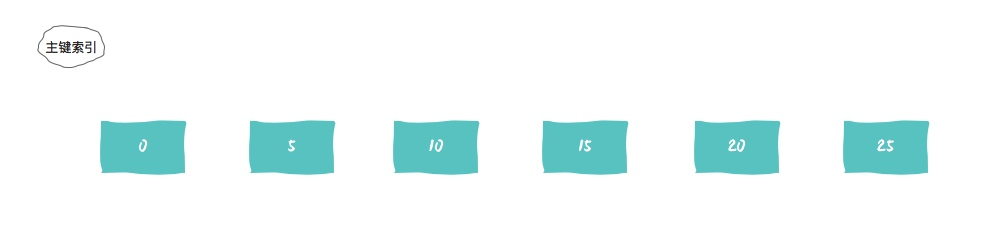
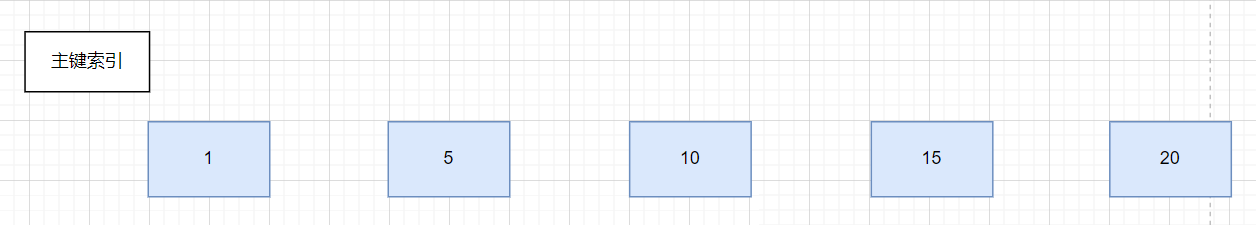
修改mysql笔记

diff --git a/MySQL数据库-2.md b/MySQL数据库-2.md
@@ -7,7 +7,7 @@ tag:
 
 ## InnoDB的锁机制
 
-锁是MySQL中并发控制的重要手段，InnoDB作为一种最常用的执行引擎，他支持很多种锁的类型。InnoDB中的锁根据不同的分类方式也有很多种分法。主要由以下这些：
+锁是MySQL事务持有的，针对数据库中的对象施加锁定的手段，是并发控制的重要部分，InnoDB作为一种最常用的执行引擎，他支持很多种锁的类型。InnoDB中的锁根据不同的分类方式也有很多种分法。主要由以下这些：
 
 按操作划分，可分为DML锁、DDL锁
 
@@ -220,7 +220,7 @@ Next-Key锁是索引记录上的记录锁和索引记录之前间隙上的间隙
 
 Next-Key Lock和Gap Lock一样，只有在InnoDB的RR隔离级别中才会生效。
 
-#### MySQL的加锁原则
+#### MySQL的加锁原则（自己实现一次全部场景）
 
 前面介绍过了Record Lock、Gap Lock和Next-Key Lock，但是并没有说明加锁规则。关于加锁规则，我是看了丁奇大佬的《MySQL实战45讲》中的文章之后理解的，他总结的加锁规则里面，包含了两个“原则”、两个“优化”和一个“bug”：
 
@@ -228,53 +228,98 @@ Next-Key Lock和Gap Lock一样，只有在InnoDB的RR隔离级别中才会生效
 
 原则 2：查找过程中访问到的对象才会加锁。
 
-优化 1：索引上的等值查询，给唯一索引加锁的时候，next-key lock 退化为行锁。
+优化 1：唯一索引上的等值查询，next-key lock退化为行锁。
 
-优化 2：索引上的等值查询，向右遍历时且最后一个值不满足等值条件的时候，next-key lock 退化为间隙锁。
+优化 2：所有索引上的等值查询，会继续向后遍历，向后遍历时且最后一个值不满足等值条件的时候，next-key lock退化为间隙锁。
 
 一个 bug：唯一索引上的范围查询会访问到不满足条件的第一个值为止。
 
-假如，数据库表中当前有以下记录：
+示例如下：
+
+建表+测试数据：
+
+```sql
+CREATE TABLE a 
+( `id` INT, 
+`name` VARCHAR ( 64 ), 
+`age` INT, 
+PRIMARY KEY ( `id` ) 
+) ENGINE = INNODB DEFAULT CHARSET = utf8mb4;
+alter table a add index idx_age(age);
+insert into a values (1,'aa',10);
+insert into a values (5,'bb',20);
+insert into a values (10,'cc',30);
+insert into a values (15,'dd',40);
+insert into a values (20,'ee',50);
+```
+
+数据库表中当前有以下记录：
+
+![](./pic/MySQL/MySQL的加锁原则-0.png)
+
+主键索引示例图如下：
 
 ![](./pic/MySQL/MySQL的加锁原则-1.jpg)
 
-当我们执行update t set d=d+1 where id = 7的时候，由于表 t 中没有 id=7 的记录，所以：
+当我们执行update a set age=17 where id = 7的时候，由于表a中没有 id=7 的记录，所以： 
 
-- 根据原则 1，加锁单位是 next-key lock，session A 加锁范围就是 (5,10]；
+- 根据原则 1，加锁单位是next-key lock，会给 (5,10]加上next-key lock，由于不是范围查找，找到10就会停止。
 
-- 根据优化 2，这是一个等值查询 (id=7)，而 id=10 不满足查询条件，next-key lock 退化成间隙锁，因此最终加锁的范围是 (5,10)。
+- 根据原则2，未访问到10，所以(5,10]的临键锁就会退化成间隙锁(5,10)。
 
-当我们执行select * from t where id>=10 and id<11 for update的时候：
+当我们执行update a set age=17 where id = 5的时候：
 
-- 根据原则 1，加锁单位是 next-key lock，会给 (5,10]加上 next-key lock，范围查找就往后继续找，找到 id=15 这一行停下来
+- 根据原则 1，加锁单位是next-key lock，会给 (1,5]加上next-key lock。
 
-- 根据优化 1，主键 id 上的等值条件，退化成行锁，只加了 id=10 这一行的行锁。
+- 根据优化2，继续往后遍历找到(5,10]
 
-- 根据原则 2，访问到的都要加锁，因此需要加 next-key lock(10,15]。因此最终加的是行锁 id=10 和 next-key lock(10,15]。
+- 根据优化1，访问到5的时候next-key lock退化为行锁，最终加锁的是5这个行锁。
 
-当我们执行select * from t where id>10 and id<=15 for update的时候： 根据原则 1，加锁单位是 next-key lock，会给 (10,15]加上 next-key lock，并且因为 id 是唯一键，所以循环判断到 id=15 这一行就应该停止了。 但是，InnoDB 会往前扫描到第一个不满足条件的行为止，也就是 id=20。而且由于这是个范围扫描，因此索引 id 上的 (15,20]这个 next-key lock 也会被锁上。
+当我们执行select * from a where id>=10 and id<11 for update的时候：
 
-假如，数据库表中当前有以下记录：
+- 根据原则 1，加锁单位是next-key lock，会给(5,10]加上next-key lock，范围查找就往后继续找，找到 id=15 这一行停下来
+
+- 根据优化 1，主键 id 上的等值条件id=10，退化成行锁，所以(5,10]的next-key lock退化成了 id=10的行锁。
+
+- 根据原则 2，访问到的都要加锁，因此需要加next-key lock(10,15]。因此最终加的是行锁 id=10 和next-key lock(10,15]。
+
+当我们执行select * from a where id>10 and id<=15 for update的时候： 
+
+- 根据原则 1，加锁单位是 next-key lock，会给 (10,15]加上next-key lock，并且因为 id 是唯一键，所以循环判断到 id=15 这一行就应该停止了。 
+
+- 但是，InnoDB 会往前扫描到第一个不满足条件的行为止，也就是 id=20。而且由于这是个范围扫描，因此索引 id 上的 (15,20]这个next-key lock 也会被锁上。因此最终加锁的是(10,15]next-key lock和(15,20]next-key lock。
+
+> 如果是在mysql 8.0.20及之后的版本，则这个sql加锁的是(10,15]next-key lock和(15,20)间隙锁了。
+
+普通索引示例图如下：
 
 ![](./pic/MySQL/MySQL的加锁原则-2.jpg)
 
-当我们执行select id from t where c=5 lock in share mode的时候：
+当我们执行select age from a where age=20 for update的时候：
 
-- 根据原则 1，加锁单位是 next-key lock，因此会给 (0,5]加上 next-key lock。要注意 c 是普通索引，因此仅访问 c=5 这一条记录是不能马上停下来的，需要向右遍历，查到 c=10 才放弃。
+- 根据原则 1，加锁单位是next-key lock，因此会给(10,20]加上next-key lock。根据优化2，age 是普通索引，因此仅访问age=20 这一条记录是不能马上停下来的，需要向右遍历，访问到age=30。
 
-- 根据原则 2，访问到的都要加锁，因此要给 (5,10]加 next-key lock。
+- 根据原则 2，访问到的都要加锁，因此要给 (20,30]加next-key lock。
 
-- 根据优化 2：等值判断，向右遍历，最后一个值不满足 c=5 这个等值条件，因此退化成间隙锁 (5,10)。
+- 根据优化 2：等值查询，最后一个值 age=30 不满足查询条件，因此临键锁(20,30]退化成间隙锁(20,30)。
 
-- 根据原则 2 ，只有访问到的对象才会加锁，这个查询使用覆盖索引，并不需要访问主键索引，所以主键索引上没有加任何锁。
+- 根据原则 2，所有访问到的对象才会加锁，这个查询使用覆盖索引，并不需要访问主键索引，所以主键索引上没有加任何锁。因此最终加锁的是(10,20]的next-key lock和(20,30)的间隙锁。
 
-当我们执行select * from t where c>=10 and c<11 for update的时候：
+当我们执行select age from a where age>=20 and age<21 for update的时候：
 
-- 根据原则 1，加锁单位是 next-key lock，会给 (5,10]加上 next-key lock，范围查找就往后继续找，找到 id=15 这一行停下来。
+- 根据原则 1，加锁单位是next-key lock，会给 (10,20]加上next-key lock，范围查找就往后继续找，找到 id=30 这一行停下来。
 
-- 根据原则 2，访问到的都要加锁，因此需要加 next-key lock(10,15]。
+- 根据原则 2，访问到的都要加锁，因此需要加next-key lock(20,30]。
 
-- 由于索引 c 是非唯一索引，没有优化规则，也就是说不会蜕变为行锁，因此最终 sesion A 加的锁是，索引 c 上的 (5,10] 和 (10,15] 这两个 next-key lock。
+- 由于索引 c 是非唯一索引，不符合优化1，因此next-key lock(10,20]不会退化成行锁；由于age<21不是等值查询，不符合优化2，所以next-key lock(20,30]不会退化成间隙锁。最终 sesion A 加的锁是，索引age上的(10,20]和(20,30]这两个next-key lock。
+
+当我们执行select age from a where age>20 and age<=30 for update的时候：
+
+- 根据原则1，加锁单位是next-key lock，因此会给(20,30]加上next-key lock，并且会继续访问到age=40。
+
+- 根据原则2，访问到的记录都会加锁，因此要给(30,40]加上next-key lock。
+
+- 所以最终索引age上有(20,30]和(30,40]这两个 next-key lock。
 
 #### 总结
 
